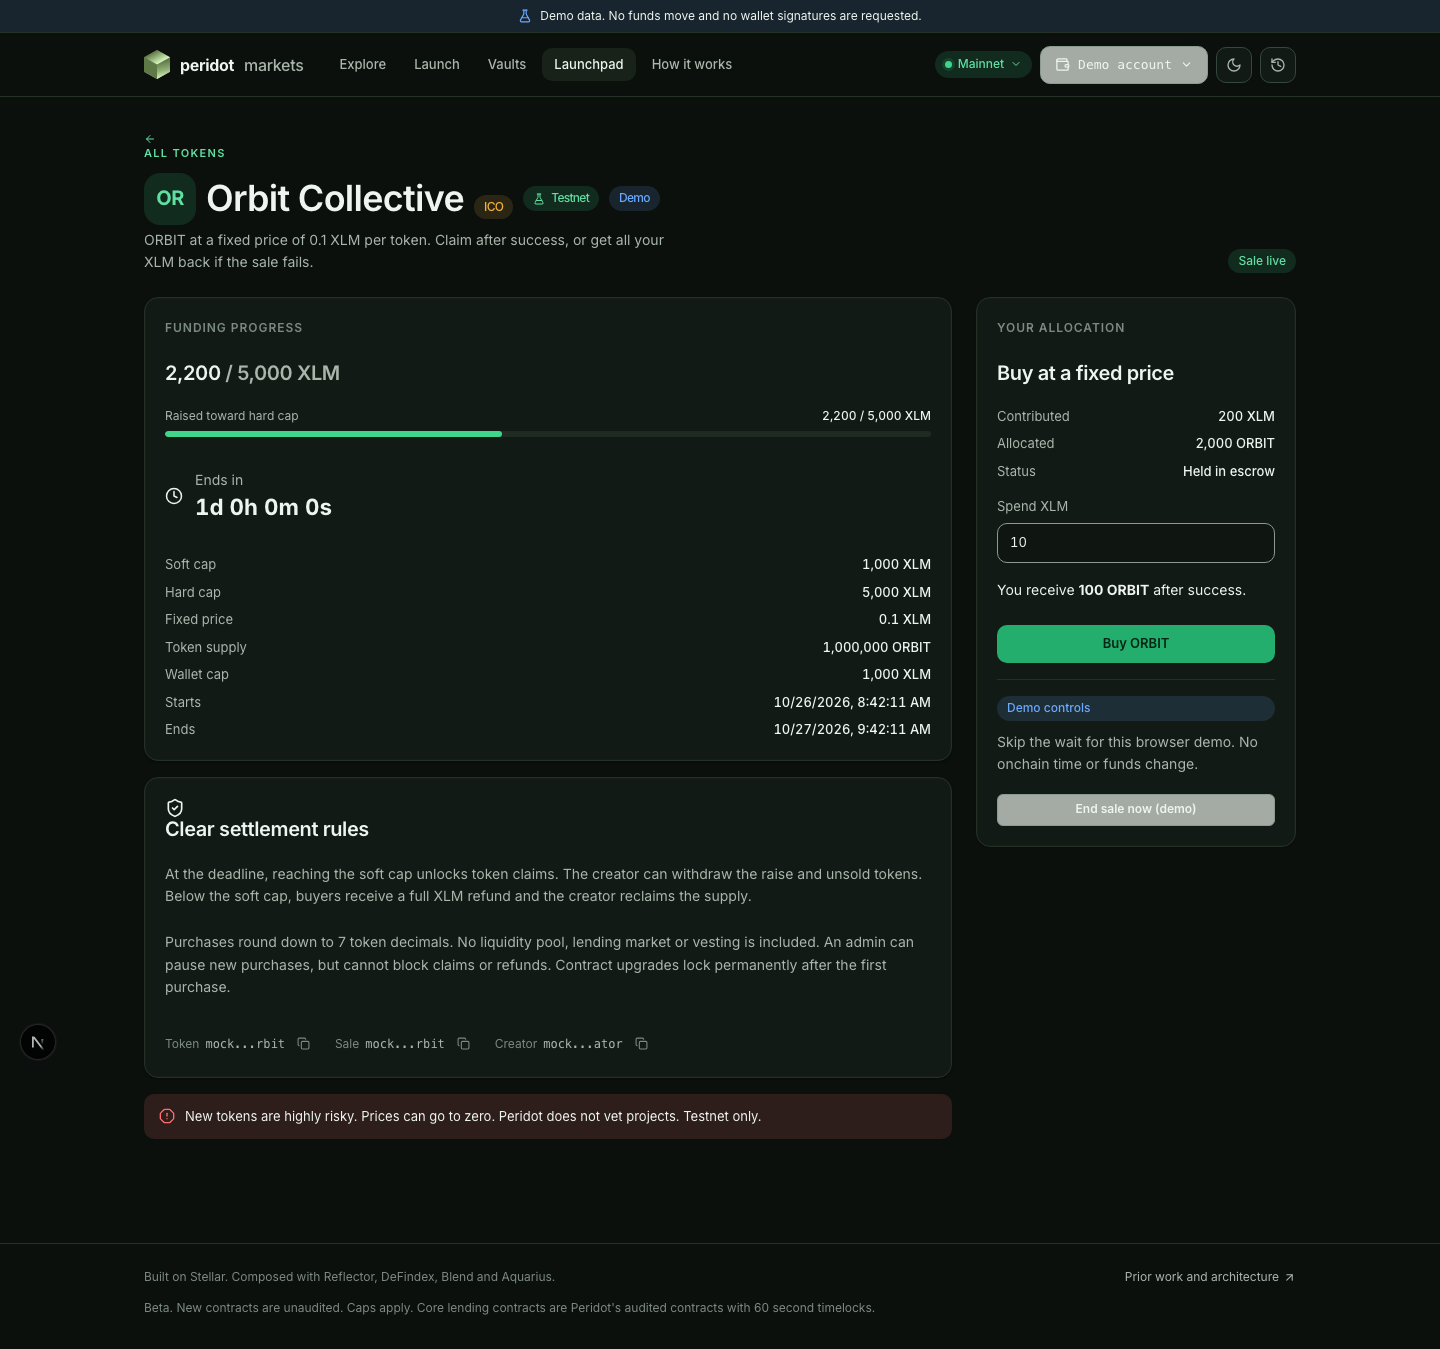
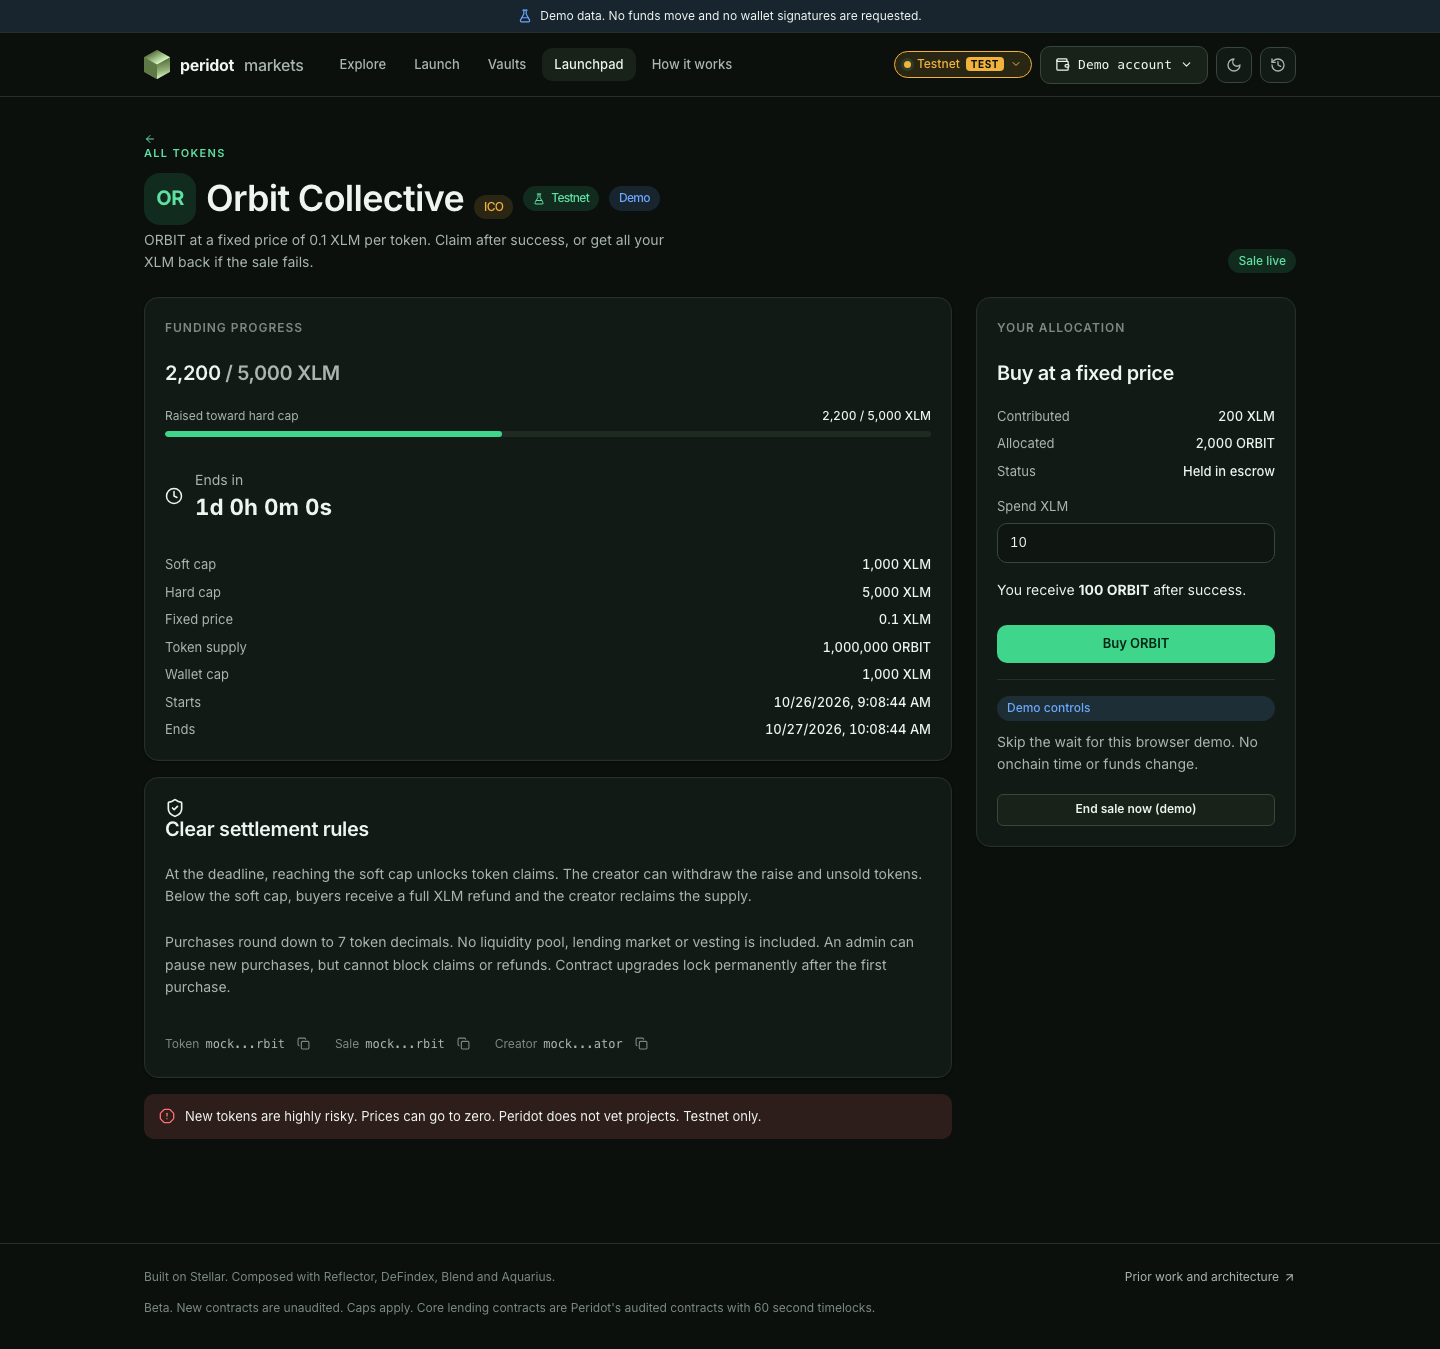
docs(ico): finalize verified testnet handoff and UI screenshots

diff --git a/app/tests/e2e/ico-flows.spec.ts b/app/tests/e2e/ico-flows.spec.ts
@@ -61,19 +61,19 @@ test('ICO form rejects impossible supply, caps and duration', async ({ page }) =
 
 test('ICO screenshots and 375px layout in both themes', async ({ page }) => {
   await page.setViewportSize({ width: 1440, height: 1080 });
-  await page.goto('/token/mock-token-orbit');
+  await page.goto('/token/mock-token-orbit?network=testnet');
   await expect(page.getByRole('heading', { level: 1, name: /Orbit Collective/ })).toBeVisible();
   await page.addStyleTag({ content: 'nextjs-portal { display: none; }' });
   for (const theme of ['dark', 'light']) {
     await page.evaluate(t => document.documentElement.setAttribute('data-theme', t), theme);
-    await page.screenshot({ path: `../docs/ui/ico-desktop-${theme}.png`, fullPage: true });
+    await page.screenshot({ path: `../docs/ui/ico-desktop-${theme}.png`, fullPage: true, style: 'nextjs-portal { display: none !important; }' });
   }
   await page.setViewportSize({ width: 375, height: 812 });
   await page.evaluate(() => document.documentElement.setAttribute('data-theme', 'dark'));
   expect(await page.evaluate(() => document.documentElement.scrollWidth <= innerWidth)).toBeTruthy();
-  await page.screenshot({ path: '../docs/ui/ico-mobile-dark.png', fullPage: true });
+  await page.screenshot({ path: '../docs/ui/ico-mobile-dark.png', fullPage: true, style: 'nextjs-portal { display: none !important; }' });
   await page.goto('/launch-token'); await page.getByRole('button', { name: 'ICO fixed price sale' }).click();
   expect(await page.evaluate(() => document.documentElement.scrollWidth <= innerWidth)).toBeTruthy();
   await page.evaluate(() => window.scrollTo(0, 0));
-  await page.screenshot({ path: '../docs/ui/ico-create-mobile.png', fullPage: true });
+  await page.screenshot({ path: '../docs/ui/ico-create-mobile.png', fullPage: true, style: 'nextjs-portal { display: none !important; }' });
 });

diff --git a/docs/handoff/12-LAUNCHPAD.md b/docs/handoff/12-LAUNCHPAD.md
@@ -91,7 +91,6 @@ Both sales used 1,000 tokens, price 1 XLM per token, hard cap 100 XLM, wallet ca
 
 | Contract | Testnet ID |
 | --- | --- |
-
 | Existing launchpad factory | `CBYQC54BS5HIWEO6KQNVGZ6XRNOTG3OMT6UZYBUD2NESGHBQMALGSBWC` |
 | Success token | `CBCRTZ4KF7XXLUR3ZUWO5DAZ6SSC733KIOGHOXU4Y47LKNCKIXXC6RTO` |
 | Success ico | `CBFXZCYSLPZMWOC5QTEW2TPJWGCWJOIO2KCNENRRTAYO4SKKIAPITP3J` |
@@ -129,8 +128,8 @@ The second creation initially timed out (`82031ea0f01f9a057806ed9e384eb502d4101a
 
 - Workspace `cargo test`: 923 passed, zero failures, five existing ignored tests. An expanded ICO-only run additionally covers three new cases (11 ICO tests total), including failed transfers rolling back, refund authorization, permanent upgrade locking after refunds, and conservation across 80 rounded buys.
 - `npm run typecheck`, `npm test` (202 tests) and `npm run build`: pass. The production build uses network access for the existing Google Fonts dependency.
-- Browser verification and final screenshots are recorded after the final rerun. Cold Next.js route compilation exceeded the original five-second assertions; the suite now allows 90 seconds for assertions, 240 seconds per flow and 360 seconds for the cold development server startup. The observed cold token-route compilation took 55 seconds; the existing group route took 72 seconds, and the initial root compilation took 258 seconds.
-- Real app decoders: `NEXT_PUBLIC_NETWORK=testnet NEXT_PUBLIC_USE_MOCKS=false npx tsx scripts/verify-ico-testnet.ts` reads the same registry and state methods used in the UI, checks bigint/u32 decoding and verifies existing curve tokens are not mistaken for ICOs.
+- `E2E_PORT=3037 npx playwright test`: all 21 tests pass (2.9 minutes), including ICO success/refund, validation and 375px/theme screenshots. Cold Next.js route compilation exceeded the original five-second assertions; the suite now allows 90 seconds for assertions, 240 seconds per flow and 360 seconds for the cold development server startup. The observed cold token-route compilation took 55 seconds; the existing group route took 72 seconds, and the initial root compilation took 258 seconds.
+- Real app decoders (verified success phase 1 and refund phase 2, each with 20 XLM raised): `NEXT_PUBLIC_NETWORK=testnet NEXT_PUBLIC_USE_MOCKS=false npx tsx scripts/verify-ico-testnet.ts` reads the same registry and state methods used in the UI, checks bigint/u32 decoding and verifies existing curve tokens are not mistaken for ICOs.
 - Screenshots: `docs/ui/ico-desktop-dark.png`, `ico-desktop-light.png`, `ico-mobile-dark.png`, `ico-create-mobile.png`.
 - Required ICO scope is implemented. Optional Aquarius seeding, lending market graduation, vesting and allowlists are not included. No mainnet deployment or transactions. No keeper changes or changes to the reference Soroban repository.
 
